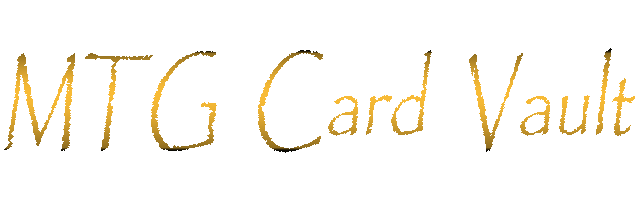
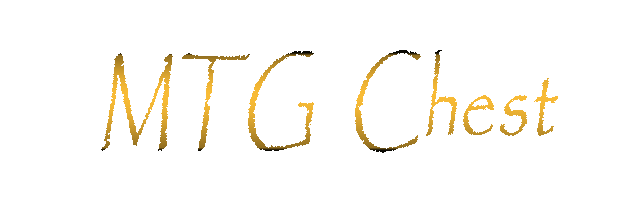
Small changes. This is the first time I'm trying to host at a server.
1) Some aesthetics changes, png editing etc.
2) CSS correction on Decks pages.
3) name of the project changed to MTG Chest.
4) Still have to make sidebox refresh when adding cards.

Changed region(s): [[0.389, 0.2376, 1.0, 0.7723], [0.0, 0.2376, 0.389, 0.7426], [0.8079, 0.2673, 0.8378, 0.3861]]

diff --git a/Frontend/src/pages/Decks.js b/Frontend/src/pages/Decks.js
@@ -6,68 +6,88 @@ import PrevNext from "../components/PrevNext";
 import Deck from "../components/Deck";
 
 //tools
-import { React, useState, useEffect} from 'react';
-import Axios from 'axios';
+import { React, useState, useEffect } from "react";
+import Axios from "axios";
 
 //imgs
-import newDeck from '../images/newDeck.png'
+import newDeck from "../images/newDeck.png";
 
 function Decks() {
   const [decks, setDecks] = useState([]);
   const [page, setPage] = useState(0);
+  const [refresh, setRefresh] = useState(false);
+
   const handlePage = (pageData) => {
     setPage(pageData);
   };
 
-  useEffect(() => {
-    Axios.get(`http://192.168.0.82:3344/decks/${page}`).then(
-      (response) => {
-        setDecks(response.data);
-      }
+  //Debouncer
+  const debounce = (func, delay) => {
+    let timerId;
+
+    return (...args) => {
+      clearTimeout(timerId);
+
+      timerId = setTimeout(() => {
+        func.apply(this, args);
+      }, delay);
+    };
+  };
+
+  // Function to toggle the refreshCards state
+  const toggleRefresh = () => {
+    debounce(
+      setRefresh((prevRefresh) => !prevRefresh),
+      450
     );
-  }, [page]);
+  };
+
+  useEffect(() => {
+    Axios.get(`http://192.168.0.82:3344/decks/${page}`)
+      .then((response) => {
+        setDecks(response.data);
+      })
+      .then(console.log("toggling refresher:", refresh));
+  }, [page, refresh]);
 
   const createDeck = () => {
-
-    let deckName = prompt(
-        `What is the name of the deck?`, "Default"
-    )
-    let deckDescription = prompt(
-        `Describe your deck`, "..."
-    )
-    if ((deckName !== null) && (deckDescription !== null)){
-        Axios.post(`http://192.168.0.82:3344/decks`, {
-       name: deckName,
-       description: deckDescription,
-       color: '',
-       card_count: 0,
-       id_deck: null
-    })
+    let deckName = prompt(`What is the name of the deck?`, "Default");
+    let deckDescription = prompt(`Describe your deck`, "...");
+    if (deckName !== null && deckDescription !== null) {
+      Axios.post(`http://192.168.0.82:3344/decks`, {
+        name: deckName,
+        description: deckDescription,
+        color: "",
+        card_count: 0,
+        id_deck: null,
+      }).then(toggleRefresh());
     }
-    
-  }
+  };
 
   return (
-    <div>
+    <div className="container">
       <h1 className={styles.title}>Decks</h1>
-      <div className={styles.decksContainer}>
-        <div className={styles.addDeck} onClick={createDeck}>
-            <img src={newDeck} width='200' alt="create your deck" />
-        </div>
-        
-        <div className="row justify-content-center">
-        {decks.map((deck, key) => (
-            <Deck 
-                key={key}
-                cardCount={deck.card_count}
-                colorIdentity={deck.color}
-                description={deck.description}
-                id_deck={deck.id_deck}
-                name={deck.name}
+      <div className="row justify-content-start">
+        <div className="col-12 col-sm-6 col-lg-4 col-xl-3">
+          <div className={styles.addDeck} onClick={createDeck}>
+            <img
+              src={newDeck}
+              className={styles.newDeckImg}
+              alt="create your deck"
             />
-        ))}
+          </div>
         </div>
 
+        {decks.map((deck, key) => (
+          <Deck
+            key={key}
+            cardCount={deck.card_count}
+            colorIdentity={deck.color}
+            description={deck.description}
+            id_deck={deck.id_deck}
+            name={deck.name}
+          />
+        ))}
       </div>
 
       <PrevNext

diff --git a/Frontend/src/components/Deck.js b/Frontend/src/components/Deck.js
@@ -1,21 +1,18 @@
 import styles from "../styles/Deck.module.css";
 
-
-const Deck = ({cardCount, colorIdentity, description, id_deck, name}) => {
-
-
-
-
-    return (
-        <div className={styles.deckContainer}>
-            <p>Deck name:{name}</p>
-            <p>Description: {description}</p>
-            <p>Cards: {cardCount}</p>
-            <p>Color: {colorIdentity}</p>
-            
+const Deck = ({ cardCount, colorIdentity, description, id_deck, name }) => {
+  return (
+    <div className="col-12 col-sm-6 col-lg-4 col-xl-3">
+      <div className={styles.deckContainer}>
+        <div className={styles.deck}>
+          <p>Deck name:{name}</p>
+          <p>Description: {description}</p>
+          <p>Cards: {cardCount}</p>
+          <p>Color: {colorIdentity}</p>
         </div>
-    )
-
-}
+      </div>
+    </div>
+  );
+};
 
 export default Deck;

diff --git a/Frontend/src/styles/Decks.module.css b/Frontend/src/styles/Decks.module.css
@@ -5,20 +5,27 @@
 .decksContainer {
     display: flex;
     justify-content: center;
-    width: 100%;
+    width: 80%;
     margin: auto;
     animation: hideSideBar .1s;
 }
 
 .addDeck {
-    margin: 20px;
-    align-items: center;
-    vertical-align: middle;
-    display: flex;
+    margin: auto;
+    min-width: 200px;
+    max-width: 290px;
+    height: 225px;
 }
 
-.addDeck:hover {
+.newDeckImg:hover {
     scale: 1.1;
     border: 4px solid pink;
 
 }
+
+.newDeckImg {
+    margin: 15px 0 15px 0;
+    width: 100%;
+    height: 100%;
+}
+

diff --git a/Frontend/src/components/PrevNext.js b/Frontend/src/components/PrevNext.js
@@ -22,13 +22,10 @@ function PrevNext({ onPageChange, page, elementsArray, where }) {
     handleScrollToTop();
   };
 
-  onPageChange(pageData);
-
   //Is it necessary to show the button?
 
     //function
 
-    
   const buttonIsNeeded = elementsArray.length > 39 ? styles.Button : styles.Hidden;
 
   //Change classes based on where is being rendered
@@ -67,3 +64,8 @@ function PrevNext({ onPageChange, page, elementsArray, where }) {
 }
 
 export default PrevNext;
+
+PrevNext.defaultProps = {
+  elementsArray: [],
+  page: 0,
+};

diff --git a/Frontend/src/styles/Deck.module.css b/Frontend/src/styles/Deck.module.css
@@ -1,7 +1,21 @@
 .deckContainer {
     background-color: orangered;
-    max-width: 200px;
-    margin: 0px 25px 0px 25px;
-    border: black 1px solid;
+    margin: auto;
+    border: rgb(147, 147, 147) 0px solid;
+    min-width: 200px;
+    max-width: 290px;
+    height: 225px;
+
+}
+
+.deck {
+    margin: 15px 0px 15px 0px;
+    height: 100%;
+    width: 100%;
+}
+
+.deck:hover {
+    scale: 1.1;
+    border: 4px solid pink;
 
 }

diff --git a/Frontend/src/pages/Home.js b/Frontend/src/pages/Home.js
@@ -204,7 +204,7 @@ function Home() {
 
         <p className={styles.Paragraph}>
           {" "}
-          MTGCollector is the perfect solution for organizing your{" "}
+          MTG Chest is the perfect solution for organizing your{" "}
           <i>Magic: The Gathering</i> cards! Here you'll be able to:
         </p>
         <ul className={styles.list}>

diff --git a/Frontend/src/components/SideBox.js b/Frontend/src/components/SideBox.js
@@ -110,7 +110,7 @@ const SideBox = ({ modalToggler, refresher }) => {
   // Function to toggle the refreshCards state
   const toggleRefresh = () => {
     debounce(
-    setRefreshCards((prevRefresh) => !prevRefresh), 450
+    setRefreshCards((prevRefresh) => !prevRefresh), 650
     )
   };
 

diff --git a/Frontend/src/layout/Header.js b/Frontend/src/layout/Header.js
@@ -6,7 +6,7 @@ import React from 'react';
 function Header() {
   return (
     <nav className="navbar navbar-expand-sm navbar-dark bg-dark ps-3 pe-3">
-      <div class="container-fluid">
+      <div className="container-fluid">
 
       <a className="navbar-brand" href="/">
         Home

diff --git a/Backend/src/controllers/collectionController.js b/Backend/src/controllers/collectionController.js
@@ -191,7 +191,7 @@ module.exports = {
       });
 
       console.log(
-        `Post successful of ${body} on Collection by ${req.ip} at ${formattedDate}`
+        `Post successful of ${card_id} on Collection by ${req.ip} at ${formattedDate}`
       );
 
       return res.json(result);

diff --git a/Frontend/src/App.js b/Frontend/src/App.js
@@ -16,7 +16,7 @@ import 'bootstrap/dist/js/bootstrap.bundle.min.js';
 function App() {
   return (
     <div className="App">
-      <BrowserRouter>
+      <BrowserRouter basename="/React">
         <Header />
         <Container />
         <Footer />
